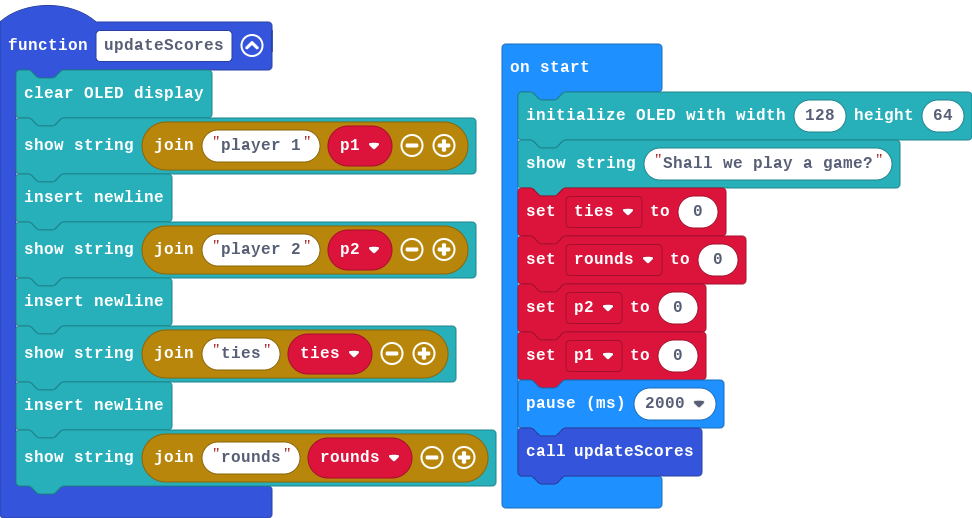
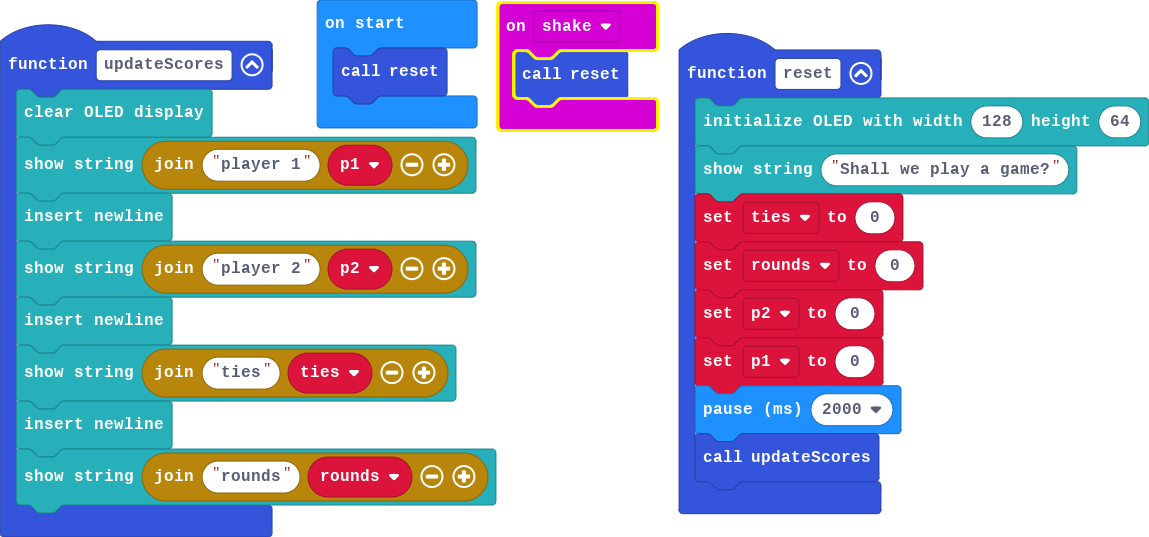
Update main.blocks, main.ts

diff --git a/main.ts b/main.ts
@@ -1,3 +1,6 @@
+input.onGesture(Gesture.Shake, function () {
+    reset()
+})
 function updateScores () {
     OLED.clear()
     OLED.writeStringNewLine("player 1" + p1)
@@ -8,15 +11,18 @@ function updateScores () {
     OLED.newLine()
     OLED.writeStringNewLine("rounds" + rounds)
 }
-let p1 = 0
-let p2 = 0
+function reset () {
+    OLED.init(128, 64)
+    OLED.writeStringNewLine("Shall we play a game?")
+    ties = 0
+    rounds = 0
+    p2 = 0
+    p1 = 0
+    basic.pause(2000)
+    updateScores()
+}
 let rounds = 0
 let ties = 0
-OLED.init(128, 64)
-OLED.writeStringNewLine("Shall we play a game?")
-ties = 0
-rounds = 0
-p2 = 0
-p1 = 0
-basic.pause(2000)
-updateScores()
+let p2 = 0
+let p1 = 0
+reset()
